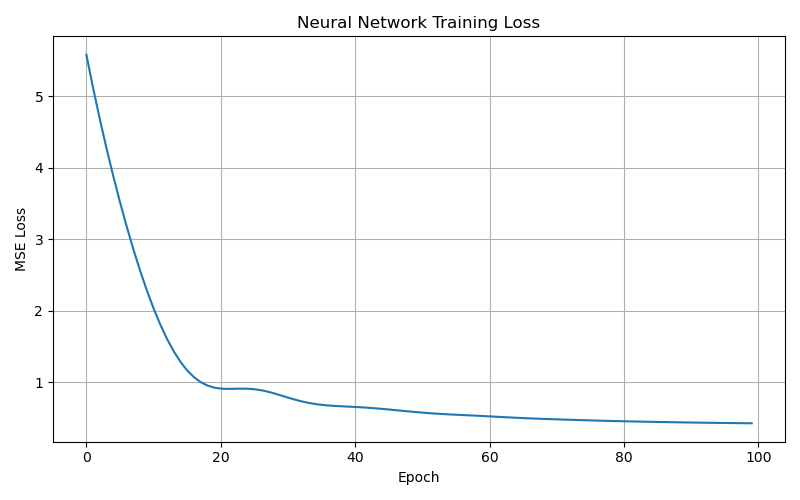
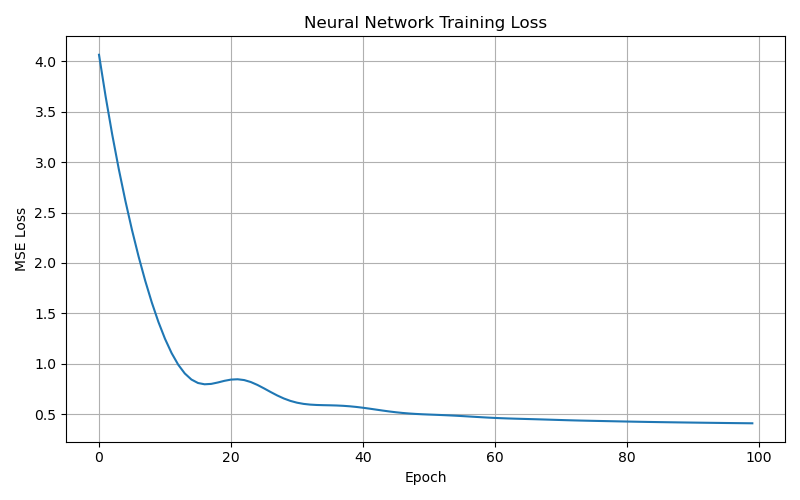
more changes

diff --git a/assignment2/hw2.py b/assignment2/hw2.py
@@ -7,28 +7,29 @@
 #   and loss curve plotting.
 # - All code was reviewed, tested, and integrated by the student.
 
-#### Part 1 ####
+#### Part 1: Data Loading and Exploration ####
 # Import necessary libraries
 import pandas as pd
 from sklearn.datasets import fetch_california_housing
 
-##### Part 2 ####
+##### Part 2: Data Preprocessing ####
 from sklearn.model_selection import train_test_split
 from sklearn.preprocessing import StandardScaler
 
-#### Part 3 ####
+#### Part 3: Model Building and Training ####
 from sklearn.linear_model import LinearRegression
 import torch
 import torch.nn as nn
 import torch.optim as optim
 
 # ADDED because I get a seg fault otherwise
+# Prevents a PyTorch segmentation fault encountered in the local macOS environment
 torch.set_num_threads(1)
 
-#### Part 4 ####
+#### Part 4: Model Evaluation ####
 from sklearn.metrics import mean_squared_error
 
-#### Part 1 ####
+#### Part 1: Data Loading and Exploration ####
 # Load the California housing dataset
 housingData = fetch_california_housing(as_frame=True)
 
@@ -105,9 +106,9 @@ with open("README.md", "w") as f:
     f.write(dataframe.describe().to_string())
     f.write("\n```\n\n")
 
-#### Part 2 ####
+#### Part 2: Data Preprocessing ####
 
-# Seperates the features and target variable
+# Separates the features and target variable
 X = dataframe.drop("MedHouseVal", axis=1)
 y = dataframe["MedHouseVal"]
 
@@ -131,7 +132,7 @@ print("Testing set size:", X_test.shape)
 print("\nScaled Training Data:")
 print(X_train_scaled[:5])
 
-#### Part 3 ####
+#### Part 3: Model Building and Training ####
 # Model 1
 # Train a Linear Regression model
 linearModel = LinearRegression()
@@ -216,7 +217,7 @@ for epoch in range(epochs):
     if (epoch + 1) % 10 == 0:
         print(f"Epoch [{epoch + 1}/{epochs}], " f"Loss: {loss.item():.4f}")
 
-#### Part 4 ####
+#### Part 4: Model Evaluation ####
 # Linear Regression #
 linear_predictions = linearModel.predict(X_test_scaled)
 
@@ -278,7 +279,7 @@ with open("README.md", "a") as f:
             "values indicate more accurate predictions.\n\n"
         )
 
-#### Part 5 ####
+#### Part 5: Analysis and Visualization ####
 import matplotlib.pyplot as plt
 
 # Plot the training loss curve for the neural network

diff --git a/assignment2/README.md b/assignment2/README.md
@@ -119,7 +119,7 @@ max       15.000100     52.000000    141.909091     34.066667  35682.000000   12
 | Model | MSE | RMSE |
 |-------|------|------|
 | Linear Regression | 0.5290 | 0.7273 |
-| Neural Network | 0.4295 | 0.6554 |
+| Neural Network | 0.4074 | 0.6382 |
 
 ## Analysis
 
